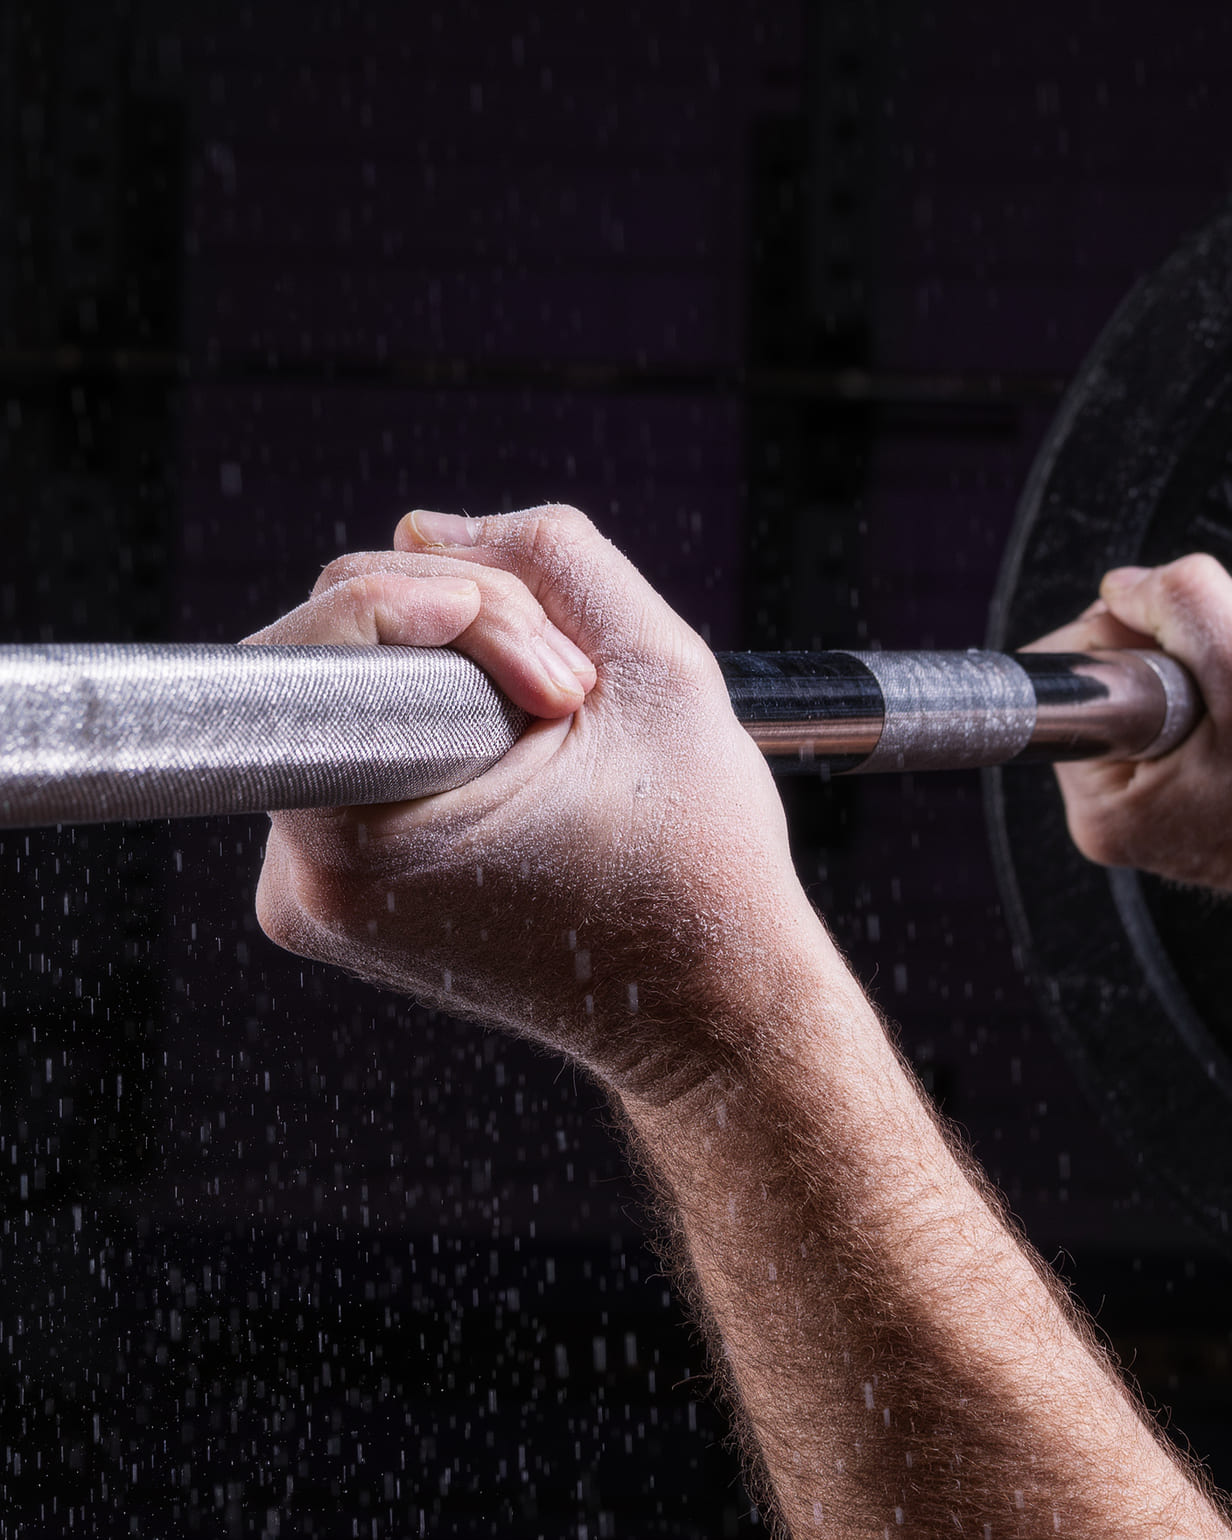
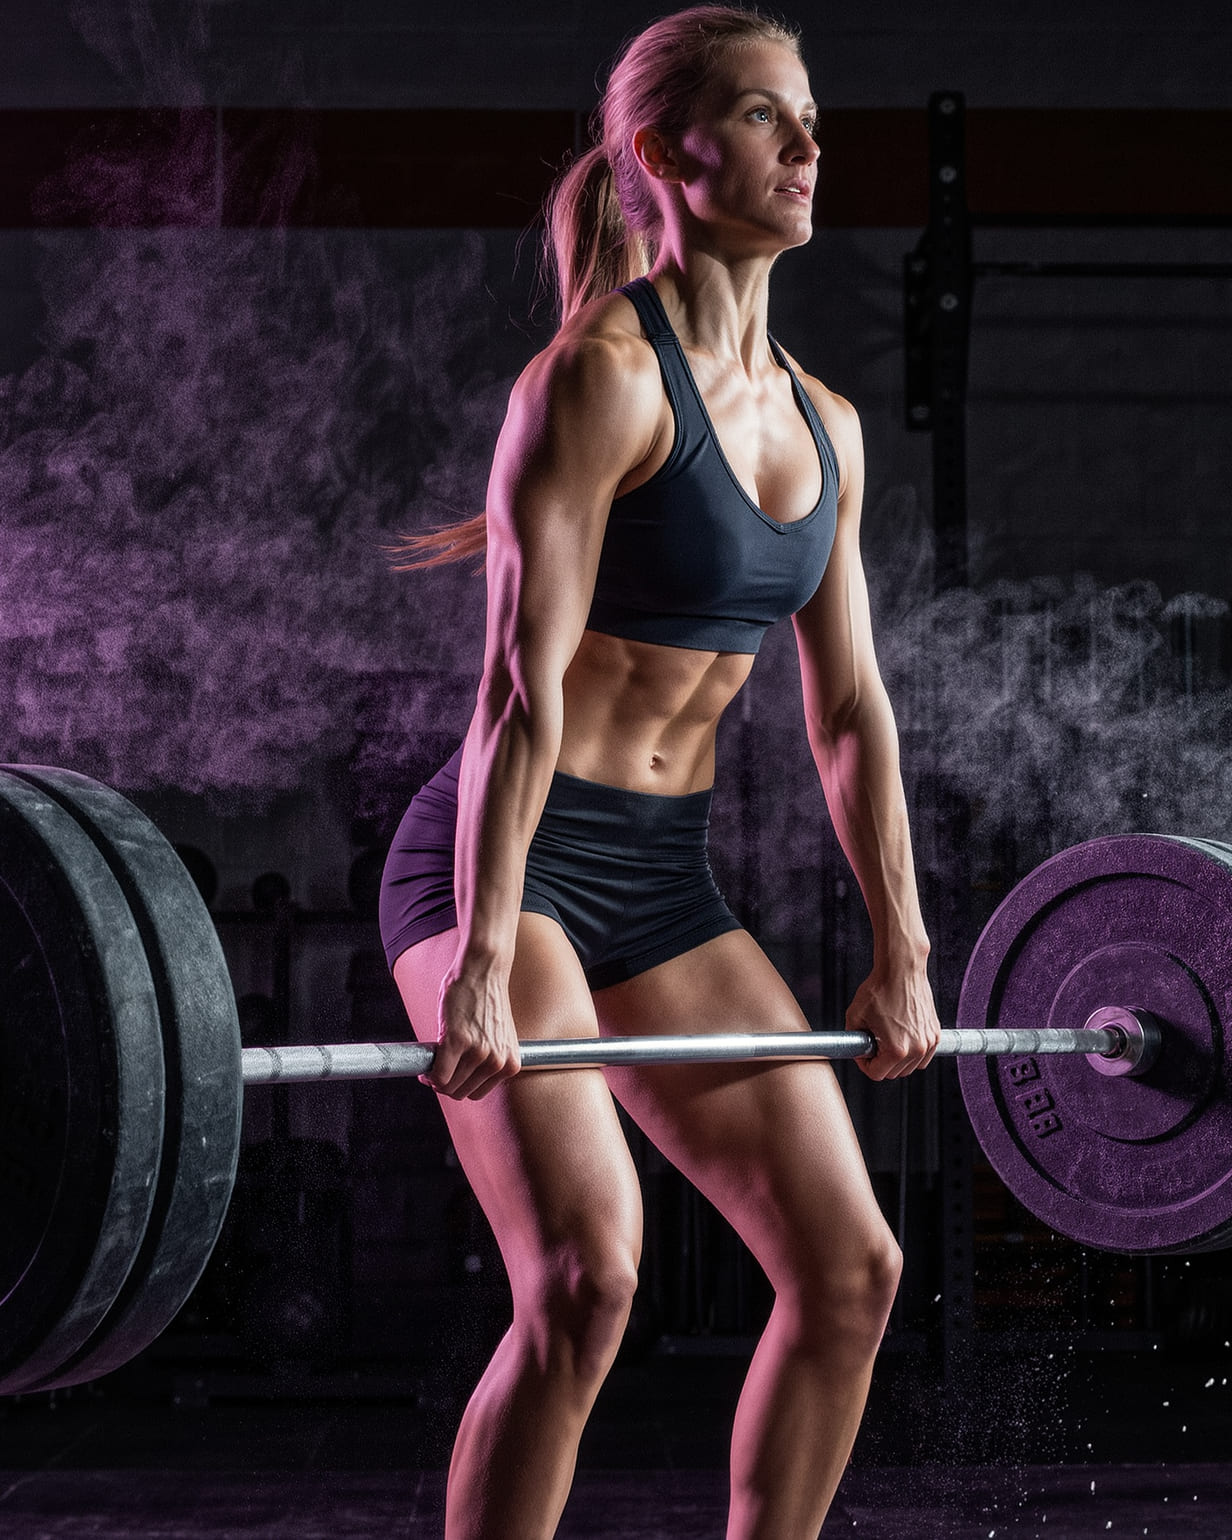
Iron Prism: replace Strength & Conditioning tile, hand anatomy error
The previous frame was a close-up barbell grip with a visible hand anatomy
error under inspection. Replaced with a wider shot of a woman at deadlift
lockout, which puts the hands at a scale where that class of artefact does
not survive. Checked the new frame's hands at full resolution before
encoding: four fingers wrapped, thumb normal, no extra digits. Corners
checked for a vendor watermark, clean.

Sized from a fresh measurement rather than the previous number: the tile
peaks at 616x770 at viewport 703px, in the single-column tablet case, and
drops to 297x372 the moment two columns engage at 704px. Encoded at 2x that
maximum, 1232x1540, matching the other three tiles. Progressive JPEG.

Alt text rewritten for what is actually in this frame.

diff --git a/public/demos/iron-prism/index.html b/public/demos/iron-prism/index.html
@@ -613,7 +613,7 @@ button, input, select { font: inherit; color: inherit; }
             <img
               class="photo"
               src="/demos/iron-prism/images/program-strength-conditioning.jpg"
-              alt="Two chalked hands gripping a loaded barbell at the knurling, a black bumper plate just visible at the end of the bar."
+              alt="A woman at the top of a deadlift, holding a loaded barbell at hip height with violet bumper plates on each end, chalk dust hanging in the air behind her."
               width="1232"
               height="1540"
               loading="lazy"
